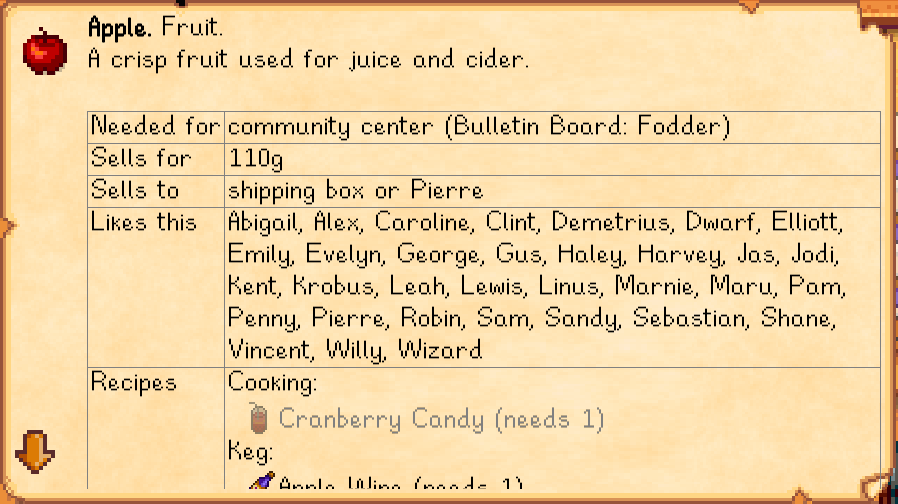
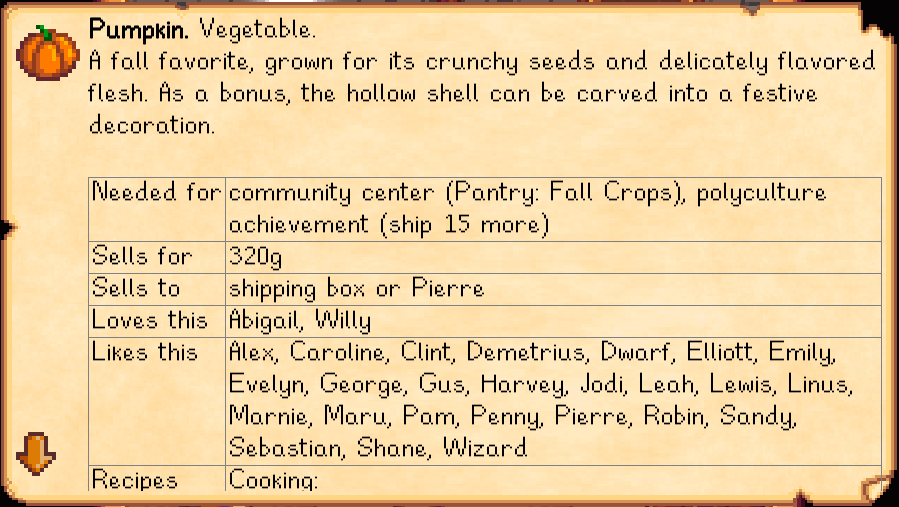
add polyculture achievement to 'needed for' field

Changed region(s): [[0.0, 0.0, 1.0, 1.0]]

diff --git a/LookupAnything/Framework/Subjects/ItemSubject.cs b/LookupAnything/Framework/Subjects/ItemSubject.cs
@@ -66,6 +66,7 @@ namespace Pathoschild.LookupAnything.Framework.Subjects
             // get data
             Item item = this.Target;
             Object obj = item as Object;
+            bool isObject = obj != null;
             bool isCrop = this.FromCrop != null;
             bool isSeed = this.SeedForCrop != null;
             bool isDeadCrop = this.FromCrop?.dead == true;
@@ -214,12 +215,29 @@ namespace Pathoschild.LookupAnything.Framework.Subjects
                 var giftTastes = this.GetGiftTastes(item, metadata);
                 if (canSell && !isCrop)
                 {
-                    // bundles
-                    if (obj != null)
+                    // needed for
                     {
-                        string[] unfinishedBundles = (from bundle in this.GetUnfinishedBundles(obj) orderby bundle.Area, bundle.Name select $"{bundle.Area}: {bundle.Name}").ToArray();
-                        if (unfinishedBundles.Any())
-                            yield return new GenericField("Needed for", $"community center ({string.Join(", ", unfinishedBundles)})");
+                        List<string> neededFor = new List<string>();
+
+                        // bundles
+                        if (isObject)
+                        {
+                            string[] bundles = (from bundle in this.GetUnfinishedBundles(obj) orderby bundle.Area, bundle.Name select $"{bundle.Area}: {bundle.Name}").ToArray();
+                            if (bundles.Any())
+                                neededFor.Add($"community center ({string.Join(", ", bundles)})");
+                        }
+
+                        // polyculture achievement
+                        if (isObject && metadata.Constants.PolycultureCrops.Contains(obj.ParentSheetIndex))
+                        {
+                            int needed = metadata.Constants.PolycultureCount - GameHelper.GetShipped(obj.ParentSheetIndex);
+                            if (needed > 0)
+                                neededFor.Add($"polyculture achievement (ship {needed} more)");
+                        }
+
+                        // yield
+                        if (neededFor.Any())
+                            yield return new GenericField("Needed for", string.Join(", ", neededFor));
                     }
 
                     // sale price
@@ -255,7 +273,7 @@ namespace Pathoschild.LookupAnything.Framework.Subjects
             }
 
             // recipes
-            if (obj != null && obj.bigCraftable != true)
+            if (isObject && obj.bigCraftable != true)
             {
                 RecipeModel[] recipes = GameHelper.GetRecipesForIngredient(this.DisplayItem).ToArray();
                 if (recipes.Any())

diff --git a/LookupAnything/Framework/Data/ConstantData.cs b/LookupAnything/Framework/Data/ConstantData.cs
@@ -66,5 +66,16 @@ namespace Pathoschild.LookupAnything.Framework.Data
         /// <summary>The age thresholds for casks.</summary>
         /// <remarks>Derived from <see cref="StardewValley.Objects.Cask.checkForMaturity"/>.</remarks>
         public IDictionary<ItemQuality, int> CaskAgeSchedule { get; set; }
+
+        /****
+        ** Achievements
+        ****/
+        /// <summary>The crops that must be shipped for the polyculture achievement.</summary>
+        /// <remarks>Derived from <see cref="StardewValley.Stats.checkForShippingAchievements"/>.</remarks>
+        public int[] PolycultureCrops { get; set; }
+
+        /// <summary>The number of each crop that must be shipped for the polyculture achievement.</summary>
+        /// <remarks>Derived from <see cref="StardewValley.Stats.checkForShippingAchievements"/>.</remarks>
+        public int PolycultureCount { get; set; }
     }
 }

diff --git a/LookupAnything/GameHelper.cs b/LookupAnything/GameHelper.cs
@@ -73,6 +73,15 @@ namespace Pathoschild.LookupAnything
             return Tuple.Create(season, day);
         }
 
+        /// <summary>Get the number of times the player has shipped a given item.</summary>
+        /// <param name="itemID">The item's parent sprite index.</param>
+        public static int GetShipped(int itemID)
+        {
+            return Game1.player.basicShipped.ContainsKey(itemID)
+                ? Game1.player.basicShipped[itemID]
+                : 0;
+        }
+
         /// <summary>Get whether the specified NPC has social data like a birthday and gift tastes.</summary>
         /// <param name="npc">The NPC to check.</param>
         /// <param name="metadata">Provides metadata that's not available from the game data directly.</param>

diff --git a/README.md b/README.md
@@ -128,7 +128,7 @@ file if you want. These are the available settings:
 * Fixed errors crashing the game in rare cases.
 
 1.6 (upcoming):
-* Added 'needed for' item field for community center bundle.
+* Added 'needed for' item field for community center bundles and polyculture achievement.
 * Added `data.json` validation on startup.
 * Added 'sells to' item field.
 * Disabled lookups when game rendering mode breaks Lookup Anything (only known to happen in the Stardew Valley Fair).
